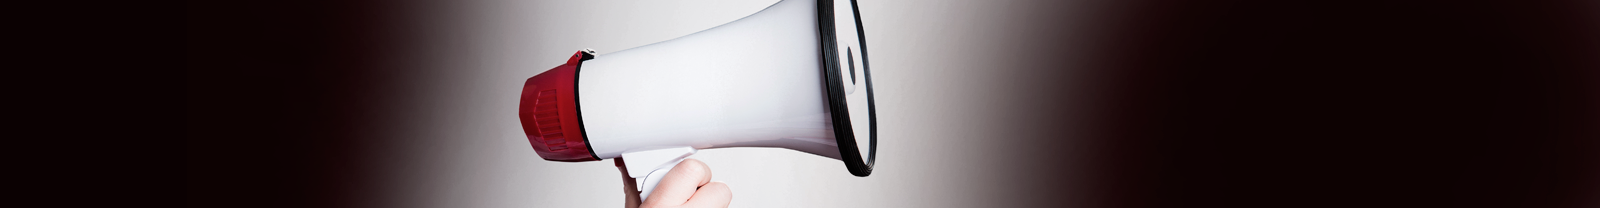
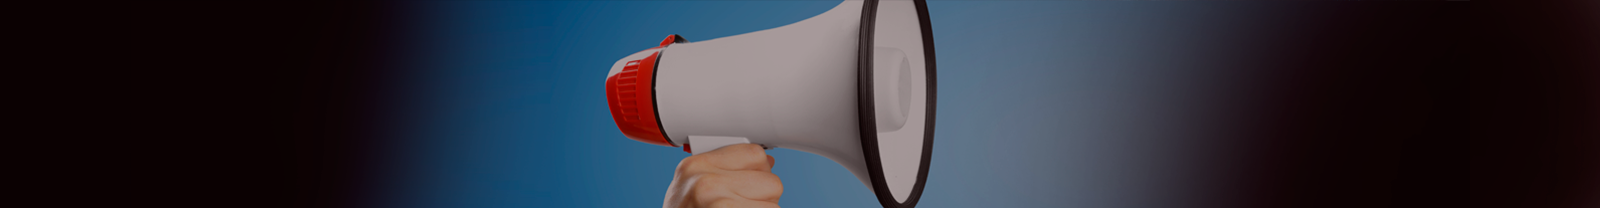
Powiadomenia - nowy układ

diff --git a/app/Plugin/Powiadomienia/webroot/less/powiadomienia.less b/app/Plugin/Powiadomienia/webroot/less/powiadomienia.less
@@ -1,144 +1,91 @@
 #powiadomienia {
-    background: #ecf0f1;
-
-    > .header {
-        @menuSize: 56px;
+    .slice {
+        @height: 605px;
 
         width: 100%;
-        height: 208px;
-        //background: url(/Powiadomienia/img/header.jpg) left center no-repeat #222224;
-        position: relative;
+        height: @height;
 
-        .holder {
+        -webkit-background-size: cover;
+        -moz-background-size: cover;
+        -o-background-size: cover;
+        background-size: cover;
+
+        > .container {
+            height: @height;
             position: relative;
-            height: 100%;
-
-            h1 {
-                font-size: 28px;
-                font-weight: bold;
-                color: #428bca;
-                margin: -(@menuSize/2) 0 0;;
-                position: absolute;
-                top: 50%;
-                left: 18px;
-                -webkit-transform: translate(0, -50%);
-                -moz-transform: translate(0, -50%);
-                transform: translate(0, -50%);
-            }
         }
-        .menu {
-            position: absolute;
-            bottom: 0;
-            left: 0;
-            width: 100%;
-            height: @menuSize;
-
-            ul {
-                margin: 0;
-                padding: 0;
-                height: 100%;
-
-                li {
-                    height: @menuSize;
-                    margin: 0 20px;
-                    float: left;
-                    display: block;
-
-                    &.active {
-                        border-bottom: 4px solid #63afea;
-                    }
-
-                    a {
-                        display: block;
-                        color: #ffffff;
-                        font-size: 14px;
-                        font-weight: bold;
-                        margin: 18px 0;
-                    }
-                }
-            }
-        }
-    }
-    > .content {
-        background: #e9eaed;
 
         .handler {
+            position: absolute;
+            top: 50%;
             padding: 0;
 
-            .header {
-                margin: 65px 20px 0;
+            -webkit-transform: translate(0, -50%);
+            -moz-transform: translate(0, -50%);
+            -o-transform: translate(0, -50%);
+            transform: translate(0, -50%);
 
-                h2 {
-                    font-size: 28px;
-                    font-weight: bold;
-                    color: #014068;
+            h1 {
+                font-size: 48px;
+                font-weight: normal;
+                color: #014068;
+                margin-top: 0;
+                margin-bottom: 55px;
+            }
+
+            h2 {
+                font-size: 28px;
+                font-weight: bold;
+                color: #ffffff;
+                margin-top: 0;
+                margin-bottom: 45px;
+            }
+
+            p {
+                font-size: 16px;
+                font-weight: normal;
+                color: #212121;
+                margin-bottom: 25px;
+
+                &:last-child {
+                    padding-bottom: 0;
                 }
+            }
+
+            .btn {
+                margin-top: 15px;
+                padding: 14px 16px;
+            }
+
+            &.mini {
+                border-left: 4px solid #ffffff;
+                padding: 20px 45px 12px;
 
                 p {
-                    font-size: 16px;
-                    font-weight: normal;
-                    color: #202020;
+                    color: #ffffff;
                 }
             }
+        }
 
-            .list {
-                display: block;
-                float: left;
-                margin: 55px 0;
-                width: 100%;
+        &.left .handler {
+            left: 30px;
+        }
 
-                .box {
-                    padding: 35px 20px;
-                    background: #ffffff;
-                    border: 1px solid #ffffff;
-                    -webkit-border-radius: 4px;
-                    -moz-border-radius: 4px;
-                    border-radius: 4px;
+        &.right .handler {
+            right: 30px;
+        }
 
-                    .icon {
-                        height: 50px;
-                        position: relative;
-
-                        .svg {
-                            max-width: 60px;
-                            max-height: 50px;
-                            position: absolute;
-                            top: 50%;
-                            left: 0;
-                            -webkit-transform: translate(0, -50%);
-                            -moz-transform: translate(0, -50%);
-                            -o-transform: translate(0, -50%);
-                            transform: translate(0, -50%);
-
-                            path {
-                                fill: #63afea;
-                            }
-                        }
-                    }
-
-                    .content {
-                        h2 {
-                            margin-top: 28px;
-                            margin-bottom: 22px;
-                            font-size: 22px;
-                            font-weight: bold;
-                            color: #014068;
-                        }
-
-                        p {
-                            font-size: 14px;
-                            font-weight: normal;
-                            color: #202020;
-                            line-height: 1.2em;
-
-                            a {
-                                font-weight: bold;
-                                color: #428bca;
-                            }
-                        }
-                    }
-                }
-            }
+        &.start {
+            background-image: url(/Powiadomienia/img/slice/slice_start.jpg);
+        }
+        &.instytucje {
+            background-image: url(/Powiadomienia/img/slice/slice_instytucje.jpg);
+        }
+        &.firmy {
+            background-image: url(/Powiadomienia/img/slice/slice_firmy.jpg);
+        }
+        &.prawo {
+            background-image: url(/Powiadomienia/img/slice/slice_prawo.jpg);
         }
     }
 }

diff --git a/app/webroot/less/appheader.less b/app/webroot/less/appheader.less
@@ -54,12 +54,16 @@
 
                 &.active {
                     border-bottom: 4px solid #63afea;
+
+                    a {
+                        color: #63afea;
+                    }
                 }
 
                 a {
                     display: block;
                     color: #ffffff;
-                    font-size: 14px;
+                    font-size: 16px;
                     font-weight: bold;
                     margin: 18px 0;
                 }

diff --git a/app/Plugin/Powiadomienia/Controller/PowiadomieniaAppController.php b/app/Plugin/Powiadomienia/Controller/PowiadomieniaAppController.php
@@ -34,6 +34,14 @@ class PowiadomieniaAppController extends AppController
             }
 
         }
+
+        $appMenu = array(
+            array('id' => '', 'label' => 'Moje powiadomieni'),
+            array('id' => 'obserwuje', 'label' => 'Obserwuję'),
+            array('id' => 'jak_to_dziala', 'label' => 'Jak to działa?')
+        );
+
+        $this->set('appMenu', $appMenu);
     }
 
 }

diff --git a/app/Plugin/Powiadomienia/Controller/PowiadomieniaController.php b/app/Plugin/Powiadomienia/Controller/PowiadomieniaController.php
@@ -47,5 +47,7 @@ class PowiadomieniaController extends PowiadomieniaAppController
 
 
         }
+
+        $this->set('appMenuSelected', 'jak_to_dziala');
     }
 }
